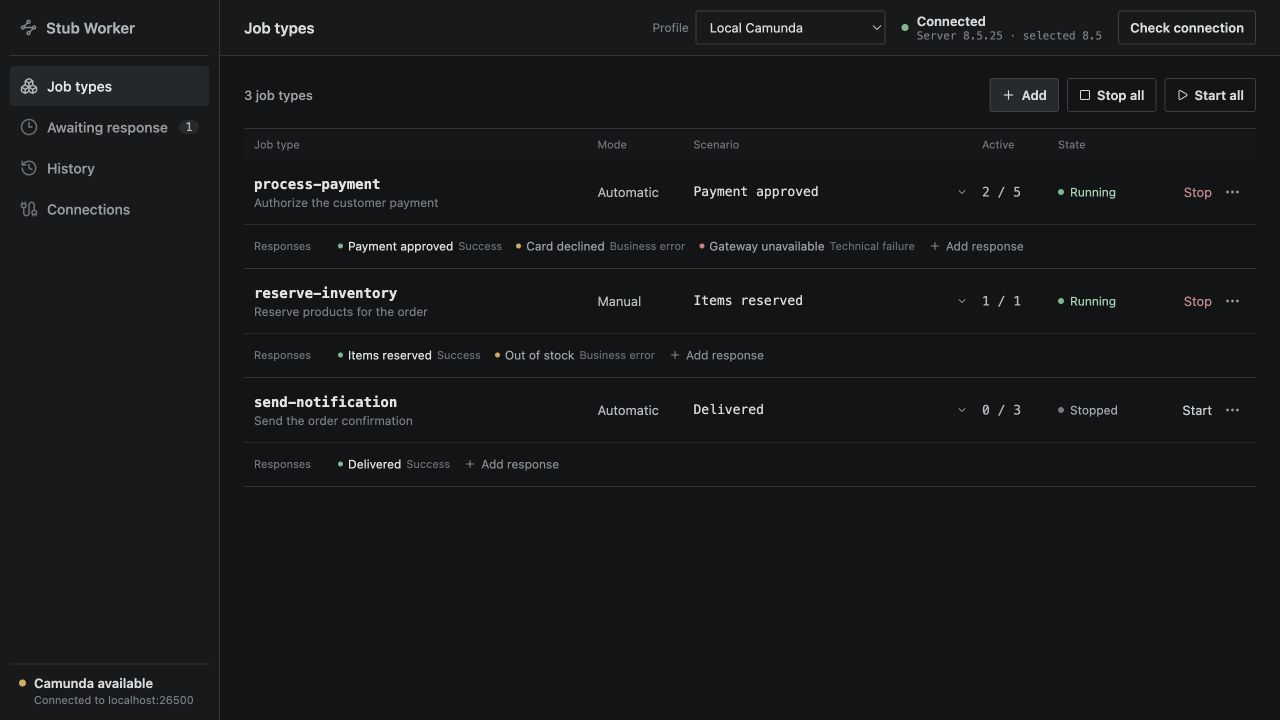
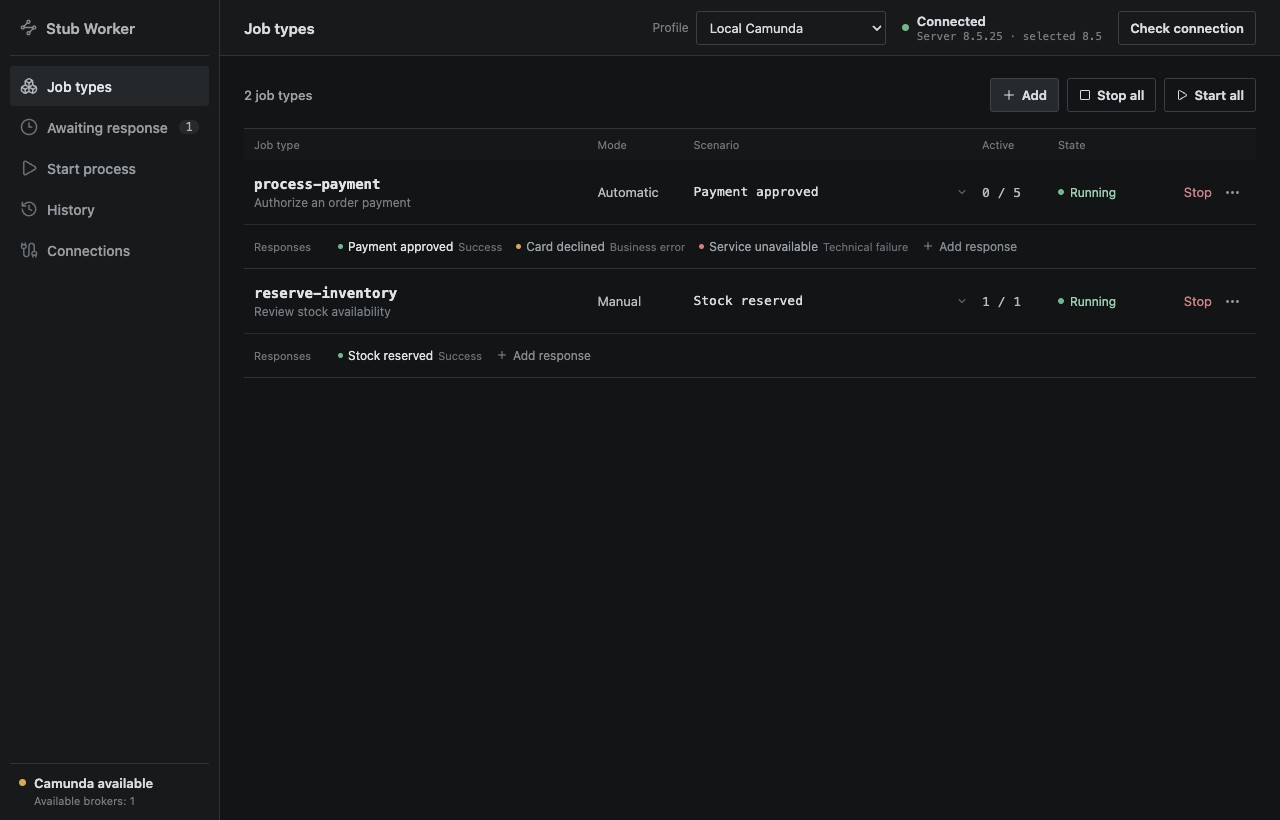
Document process starting and Operate setup with current screenshots (#15)

diff --git a/site/index.html b/site/index.html
@@ -3,7 +3,7 @@
   <head>
     <meta charset="utf-8">
     <meta name="viewport" content="width=device-width, initial-scale=1">
-    <meta name="description" content="A desktop app for testing local Camunda 8 processes without building every external worker first.">
+    <meta name="description" content="Start local Camunda 8 processes, browse deployments through Operate, and test worker responses from one desktop app.">
     <meta name="theme-color" content="#121416">
     <title>Camunda Stub Worker</title>
     <link rel="icon" href="favicon.png" type="image/png">
@@ -17,20 +17,37 @@
     <main class="wrap">
       <section class="intro" aria-labelledby="title">
         <h1 id="title">Test your process.<br>Stub the workers.</h1>
-        <p>A desktop app for local Camunda 8 development. Define job types, choose a response, and test your process without writing worker code.</p>
+        <p>Start a deployed process, choose how its jobs respond, and inspect the results. A desktop app for local Camunda 8 development, without writing worker code.</p>
         <div class="actions">
           <a class="button" href="https://github.com/mishankov/camunda-stub-worker/releases/latest">Download the app</a>
           <a href="https://github.com/mishankov/camunda-stub-worker#quick-start">Quick start ↗</a>
         </div>
         <p class="platforms">macOS · Windows · Linux</p>
       </section>
-      <img class="screenshot" src="assets/job-types.jpg" width="1280" height="720" alt="Camunda Stub Worker showing job types and their configured response scenarios">
+      <img class="screenshot" src="assets/job-types.jpg" width="1280" height="820" alt="Job types with automatic and manual workers and success, business-error, and technical-failure scenarios">
       <div class="features">
         <p><strong>Choose the outcome.</strong> Return success, throw a business error, or simulate a technical failure.</p>
         <p><strong>Control the response.</strong> Run automatically or inspect and respond to jobs manually.</p>
-        <p><strong>Keep it local.</strong> Save scenarios and response history on your computer.</p>
+        <p><strong>Start from the app.</strong> Pick a deployed process from Operate or enter its ID, then supply a version and JSON variables.</p>
       </div>
-      <p class="compatibility">For local Zeebe connections; verified with 8.5.25. Builds are unsigned. See <a href="https://github.com/mishankov/camunda-stub-worker#install">installation and requirements</a>.</p>
+      <section class="feature-section" aria-labelledby="start-title">
+        <h2 id="start-title">From deployment to process instance.</h2>
+        <p>Browse deployed processes through the Operate API, refresh after deploying a new model, or enter a BPMN process ID manually. Choose a specific version or use the latest, add JSON variables, and get the new instance key.</p>
+        <figure><img class="screenshot" src="assets/start-process.jpg" width="1280" height="820" loading="lazy" alt="Start process screen showing Order fulfillment, input variables, and the created instance key"><figcaption>Start a process and see the instance confirmed by Camunda.</figcaption></figure>
+      </section>
+      <section class="feature-section" aria-labelledby="manual-title">
+        <h2 id="manual-title">Inspect a job before you respond.</h2>
+        <p>Review input variables, choose a response scenario, and edit the JSON before sending it. Switch to automatic mode for repeatable test runs, then review response attempts in History.</p>
+        <figure><img class="screenshot" src="assets/manual-response.jpg" width="1280" height="820" loading="lazy" alt="Awaiting response screen with order variables and an editable inventory response"><figcaption>Manual responses let you control the next step in your process.</figcaption></figure>
+      </section>
+      <section class="feature-section" aria-labelledby="connections-title">
+        <h2 id="connections-title">Set up your connection once.</h2>
+        <p>Keep your Zeebe address, Operate URL, and authentication in one connection profile. Use an Operate username and password, a bearer token, or no authentication. Saved settings are restored when you reopen the app.</p>
+        <figure><img class="screenshot" src="assets/connections.jpg" width="1280" height="1100" loading="lazy" alt="Connection editor with local Zeebe and Operate addresses and masked password authentication"><figcaption>Local defaults: Zeebe on port 26500, Operate on port 8081, and demo / demo for Operate login.</figcaption></figure>
+        <p class="note">Configuration and history stay on your computer. Saved passwords and tokens are stored in plaintext in the local SQLite database and omitted from profile exports.</p>
+      </section>
+      <p class="note">Screenshots show the current app UI with illustrative sample data.</p>
+      <p class="compatibility">For local Zeebe connections; verified with 8.5.25. Operate v1 is optional and must connect to the same cluster. Deploy BPMN models with an external tool. Builds are unsigned. See <a href="https://github.com/mishankov/camunda-stub-worker#install">installation and requirements</a>.</p>
     </main>
     <footer class="wrap">Camunda Stub Worker</footer>
   </body>

diff --git a/site/style.css b/site/style.css
@@ -28,6 +28,12 @@ h1 { margin: 0 0 22px; font-size: clamp(36px, 5vw, 54px); line-height: 1.12; let
 .features { display: grid; grid-template-columns: repeat(3, 1fr); gap: 36px; padding-block: 32px; }
 .features p { margin: 0; font-size: 16px; line-height: 1.65; color: var(--muted); }
 .features strong { display: block; color: #d8dcde; font-weight: 600; margin-bottom: 6px; }
+.feature-section { padding-block: 32px; border-top: 1px solid var(--rule); }
+.feature-section h2 { margin: 0 0 14px; font-size: clamp(24px, 3vw, 32px); font-weight: 600; letter-spacing: -.5px; }
+.feature-section > p { max-width: 760px; margin: 0 0 24px; color: var(--muted); font-size: 16px; line-height: 1.65; }
+figure { margin: 0; }
+figcaption { margin-top: 12px; color: var(--muted); font-size: 14px; line-height: 1.6; }
+.note, .feature-section > .note { color: var(--muted); font-size: 14px; line-height: 1.65; margin: 24px 0; }
 .compatibility { color: var(--muted); font-size: 14px; line-height: 1.65; margin: 0 0 32px; }
 .compatibility a { text-decoration: underline; text-underline-offset: 3px; }
 footer { padding-block: 22px; border-top: 1px solid var(--rule); font-size: 14px; color: var(--muted); }

diff --git a/README.md b/README.md
@@ -1,6 +1,6 @@
 # Camunda Stub Worker
 
-Camunda Stub Worker is a desktop app for testing Camunda 8 processes without building every external worker first. Connect it to a local Zeebe instance, define the job types from your BPMN model, and choose how each job should respond.
+Camunda Stub Worker is a desktop app for testing Camunda 8 processes without building every external worker first. Connect to local Zeebe, start a deployed process, and choose how its jobs should respond. Connect Operate to pick deployed processes from a dropdown.
 
 Use it to explore happy paths, business errors, and technical failures while developing or demonstrating a process. No code is required to create or switch responses.
 
@@ -11,6 +11,7 @@ Use it to explore happy paths, business errors, and technical failures while dev
 ## What you can do
 
 - **Start deployed processes** with a BPMN process ID, optional version, and JSON variables.
+- **Browse deployed processes** through the Operate API, with refresh and manual ID entry.
 - **Stub multiple job types** from one desktop app.
 - **Create reusable responses** for success, BPMN business errors, and technical failures.
 - **Run automatically** with a selected response and optional delay.
@@ -18,6 +19,7 @@ Use it to explore happy paths, business errors, and technical failures while dev
 - **Inspect input variables and custom headers** for activated jobs.
 - **Search response history** by job key, process instance, job type, outcome, status, or date.
 - **Switch between local Camunda profiles** and import or export their configuration as JSON.
+- **Save Operate authentication** with each connection: username/password, bearer token, or no authentication.
 - **Keep working offline** with local configuration and history stored in SQLite.
 
 Camunda Stub Worker preserves JSON as text end to end. Large integers such as Zeebe keys do not pass through JavaScript `Number` or Go `float64`, so values larger than `2^53` remain intact.
@@ -82,15 +84,33 @@ xattr -dr com.apple.quarantine "/Applications/Camunda Stub Worker.app"
 6. For an automatic worker, select its active scenario.
 7. Deploy your BPMN model with Camunda Modeler or `zbctl`, start the job type, then open **Start process**. Enter its BPMN process ID and JSON variables, leave version blank for the latest deployment, and select **Start process**.
 
-To choose a deployed process from a dropdown, edit the connection profile and set its **Operate URL** (for example, `http://localhost:8081`, with or without `/v1`). The Start process screen loads default-tenant process definitions from Operate, combines deployed versions by BPMN process ID, and offers **Refresh processes** and manual entry. Operate must point to the same cluster as the Zeebe connection; recent deployments may take a moment to appear. In **Connections → Edit profile → Operate authentication**, choose **Username and password** for built-in Operate login, **Bearer token** for token-based access, or **None** for an unauthenticated endpoint, then save the profile and refresh processes. Username/password login uses `/api/login` and session cookies; Identity/SSO deployments may still require a bearer token. Authentication is saved per connection in the local SQLite database, including passwords and bearer tokens in plaintext, and restored after restart. Exports omit authentication credentials. New local connections default to `http://localhost:8081` with username `demo` and password `demo`; adjust these to match your installation. Canceling profile edits leaves the active authentication unchanged. Session cookies are used only for the current refresh. The bundled Zeebe-only Docker environment does not include Operate.
+### Start a process
+
+Open **Start process**, below **Awaiting response** in the sidebar. Choose a deployed process from Operate, or select **Enter ID manually**. Leave **Version** blank for the latest deployed version, or enter a specific version. Add your input variables as a JSON object and select **Start process**.
+
+![Start process with a deployed process selected, JSON variables, and returned instance keys](docs/images/start-process.jpg)
+
+Screenshots show the current app UI with illustrative sample data.
 
 The app shows the confirmed process instance key and definition key. It returns once the instance is created, without waiting for the process to finish. On an uncertain result (such as a timeout), check Camunda before trying again: an instance may already exist. Process starts are not retried automatically or saved in response History; History records jobs handled by the workers. BPMN deployment still requires an external tool.
+
+### Connect Operate
+
+1. Open **Connections → Edit profile** and set the **Operate URL**, with or without `/v1`. Operate and Zeebe must point to the same cluster.
+2. Choose **Username and password**, **Bearer token**, or **None** under **Operate authentication** and enter the corresponding credentials.
+3. Save the profile, then open **Start process**. Use **Refresh processes** to load new deployments.
+
+![Connection profile editor with Operate URL and username/password authentication](docs/images/connections.jpg)
+
+New local connections default to `http://localhost:8081` with username `demo` and password `demo`. Adjust these to match your installation. Built-in Operate login uses a session cookie; Identity/SSO deployments may require a bearer token. Authentication is saved per connection and restored after restarting the app.
+
+The picker lists default-tenant processes and combines their versions into one entry per BPMN process ID. Recently deployed models may take a moment to appear in Operate. If Operate is unavailable, manual ID entry still works. The bundled Docker environment contains only Zeebe; Operate is optional and must be provided separately.
 
 ## Compatibility and scope
 
 The verified server target is **Zeebe 8.5.25**. Selecting **Other 8.x** uses the 8.5 API mode and does not imply verified compatibility.
 
-Camunda Stub Worker connects using plaintext gRPC with an explicit `host:port`. OAuth, TLS, Camunda SaaS, and multitenancy are not supported in the current MVP. Conditional scenarios, scripts, BPMN deployment, and unattended update installation are also outside its scope.
+The Zeebe connection uses plaintext gRPC with an explicit `host:port`; Zeebe OAuth, TLS, Camunda SaaS, and multitenancy are not supported. The optional Operate connection uses the v1 REST API over HTTP or HTTPS with built-in login, bearer-token authentication, or no authentication. Conditional scenarios, scripts, BPMN deployment, and unattended update installation are outside the app's scope.
 
 Other workers registered for the same job type compete for jobs, so exclusive activation is not guaranteed. Zeebe does not provide an ownership token for a specific activation, which means exactly-once handling cannot be guaranteed.
 
@@ -128,7 +148,7 @@ Preview it locally from the repository root:
 python3 -m http.server 4173 --directory site
 ```
 
-Open <http://localhost:4173>. The screenshot in `site/assets/` is a copy of the documentation image; refresh it when the app screenshot changes.
+Open <http://localhost:4173>. Screenshots in `site/assets/` are copies of the documentation images in `docs/images/`; refresh both sets together. Use sample data and masked credentials when capturing the UI.
 
 For deployment, select **GitHub Actions** in the repository's **Settings → Pages → Build and deployment → Source**. After these changes are pushed to `main`, `.github/workflows/pages.yml` publishes only `site/` to GitHub Pages when site files change. The workflow can also be run manually on `main`. The expected project URL is <https://mishankov.github.io/camunda-stub-worker/>. All local asset URLs are relative so the site works under the repository path.
 
